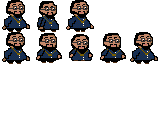
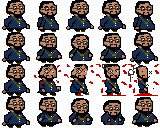
Arreglo lo de Almita.

diff --git a/src/main/java/com/unam/aragon/arranque/Inicio.java b/src/main/java/com/unam/aragon/arranque/Inicio.java
@@ -7,6 +7,8 @@ import javafx.scene.Group;
 import javafx.scene.Scene;
 import javafx.scene.canvas.Canvas;
 import javafx.scene.canvas.GraphicsContext;
+import javafx.scene.paint.Color;
+import javafx.scene.paint.Paint;
 import javafx.stage.Stage;
 
 import java.io.IOException;
@@ -43,7 +45,7 @@ public class Inicio extends Application {
     @Override
     public void start(Stage stage) throws IOException, URISyntaxException {
         arrancador();
-//      graficar();
+        graficar();
         stage.setTitle("Mike VS Microsoft");
         stage.setScene(escena);
         stage.show();
@@ -58,12 +60,14 @@ public class Inicio extends Application {
         hoja = new Canvas(anchura_panel, altura_panel);
         root.getChildren().add(hoja);
         graficos = hoja.getGraphicsContext2D();
-        fondo = new Fondo(0, 0, "Comprimida.jpg", 1);
+        fondo = new Fondo(0, 0, "fondo0.png", 1);
         personajePrueba =new PersonajePrueba(150,100,"Mike.png",1,3);
         teclado();
         mapa=new Mapa(anchura_panel,tamano_cuadro,4);
         objeto=mapa.getObst();
         marcador=new Marcadores(15,15,"corazon.png",1);
+
+
     }
 
     private void teclado() {
@@ -94,20 +98,17 @@ public class Inicio extends Application {
         }
         marcador.graficar(graficos);
 
-
     }
     private void logicaObjeto(){
         this.fondo.logicaObjeto();
         this.personajePrueba.logicaObjeto();
-        personajePrueba.verificarColisiones(objeto, marcador);
-
+        personajePrueba.verificarColisiones(objeto,marcador);
         for (Obstaculo movil:objeto){
             movil.logicaObjeto();
         }
+
         mapa.logica();
         marcador.logicaObjeto();
-
-
     }
     private void actualizar(){
         this.personajePrueba.movimiento(arriba_presionada,abajo_presionada);
@@ -121,7 +122,6 @@ public class Inicio extends Application {
             private int fps_counter;
             private long fps_timer;
             private long uf;
-
             @Override
             public void handle(long tiempoActual) {
                 if(uf==0){
@@ -132,7 +132,6 @@ public class Inicio extends Application {
                 }
                 uf=tiempoActual;
                 fps_counter++;
-
                 logicaObjeto();
                 graficar();
                 actualizar();
@@ -153,13 +152,5 @@ public class Inicio extends Application {
 
     public static void main(String[] args) {
         launch();
-    }
-
-    public float getVelocidad_abs() {
-        return velocidad_abs;
-    }
-
-    public void setVelocidad_abs(float velocidad_abs) {
-        this.velocidad_abs = velocidad_abs;
     }
 }

diff --git a/src/main/java/com/unam/aragon/modelo/PersonajePrueba.java b/src/main/java/com/unam/aragon/modelo/PersonajePrueba.java
@@ -11,9 +11,9 @@ import java.util.ArrayList;
 public class PersonajePrueba extends ComponentesJuego{
     private Image sprite_Map_jugador;
     private int personaje_caminando;
-    private final int velocidad_animacion = 10;
-    private int columna_sprite;
-    private int cuenta ;
+    private final int velocidad_animacion = 9;
+    private int columna_sprite=0;
+    private int cuenta=0;
     private int gravedad =1;
     private boolean toca_suelo =false;
     private int fuerza_salto =18;
@@ -42,7 +42,7 @@ public class PersonajePrueba extends ComponentesJuego{
             selector_horizontal=1;
 
         }if (abajo && toca_suelo) {
-            selector_horizontal=2;
+            selector_horizontal=3;
         }
         //System.out.println(this.getX()+this.getY());
     }
@@ -50,8 +50,8 @@ public class PersonajePrueba extends ComponentesJuego{
     @Override
     public void logicaObjeto() {
         if(!toca_suelo){
-           velocidad_y+= gravedad;
-            y += velocidad_y;
+             velocidad_y+= gravedad;
+            y += (int)velocidad_y;
             int altura_personaje = 100;
             int suelo_y =Inicio.altura_panel - altura_personaje;
 
@@ -69,10 +69,11 @@ public class PersonajePrueba extends ComponentesJuego{
         if (cuenta >= velocidad_animacion && columna_sprite<=4) {
             cuenta = 0;
             columna_sprite++;
-        } else if (columna_sprite>4) {
-            columna_sprite=0;
-        personaje_caminando = columna_sprite*32;
-    }}
+        }
+ else if (columna_sprite>4) {
+columna_sprite=0;}
+        personaje_caminando = (columna_sprite*32);
+}
     @Override
     public void graficar(GraphicsContext g) {
         g.drawImage(sprite_Map_jugador, personaje_caminando, 32*selector_horizontal, 32, 32, x, y, 64 * Inicio.escala , 64 * Inicio.escala );
@@ -97,17 +98,17 @@ public class PersonajePrueba extends ComponentesJuego{
     }
 
     public void verificarColisiones(ArrayList<Obstaculo> objetos, Marcadores marcador) {
-        this.cuenta++;
-        if (this.cuenta >= 10) {
-            this.cuenta = 0;
+//        this.cuenta++;
+//        if (this.cuenta >= 10) {
+//            this.cuenta = 0;
             for (ComponentesJuego obj:objetos){
-                if (Colisiones.detectarColision(this,obj)){
+                if (Colisiones.detectarColision(this,obj)&&obj.tangible==true){
                     restarVida();
+                    obj.tangible=false;
                     break;
         }
             }
         }
-    }
 
     public int getVidas() {
         return vidas;

diff --git a/src/main/java/com/unam/aragon/modelo/Fondo.java b/src/main/java/com/unam/aragon/modelo/Fondo.java
@@ -31,8 +31,8 @@ public class Fondo extends ComponentesJuego{
 //        dy- la posición de coordenadas Y del rectángulo de destino.
 //        dw- el ancho del rectángulo de destino.
 //        dh- la altura del rectángulo de destino.
-        g.drawImage(imagen,0,0,400,225,x,y,Inicio.anchura_panel,Inicio.altura_panel);
-        g.drawImage(imagen,0,0,400,225,bgx,y,Inicio.anchura_panel,Inicio.altura_panel);
+        g.drawImage(imagen,0,0,800,450,x,y,Inicio.anchura_panel,Inicio.altura_panel);
+        g.drawImage(imagen,0,0,800,450,bgx,y,Inicio.anchura_panel,Inicio.altura_panel);
         //g.fillText("Puntuación: ",30,30,100);
         //g.setFill(Color.INDIANRED);
         //g.scale(3,3);

diff --git a/src/main/java/com/unam/aragon/modelo/ComponentesJuego.java b/src/main/java/com/unam/aragon/modelo/ComponentesJuego.java
@@ -8,6 +8,7 @@ public abstract class ComponentesJuego {
     protected int y;
     protected String imagen;
     protected int velocidad;
+    protected boolean tangible=true;
 
 
     public ComponentesJuego(int x, int y, String imagen, int velocidad) {
@@ -55,6 +56,6 @@ public abstract class ComponentesJuego {
     public Rectangle getBounds(int ancho, int alto) {
         return new Rectangle(x, y, ancho, alto);
     }
+    }
 
 
-}

diff --git a/src/main/java/com/unam/aragon/modelo/Mapa.java b/src/main/java/com/unam/aragon/modelo/Mapa.java
@@ -4,7 +4,6 @@ import com.unam.aragon.arranque.Inicio;
 
 import java.util.ArrayList;
 import java.util.Random;
-import java.util.Timer;
 
 public class Mapa {
     private int desplazamiento=0;
